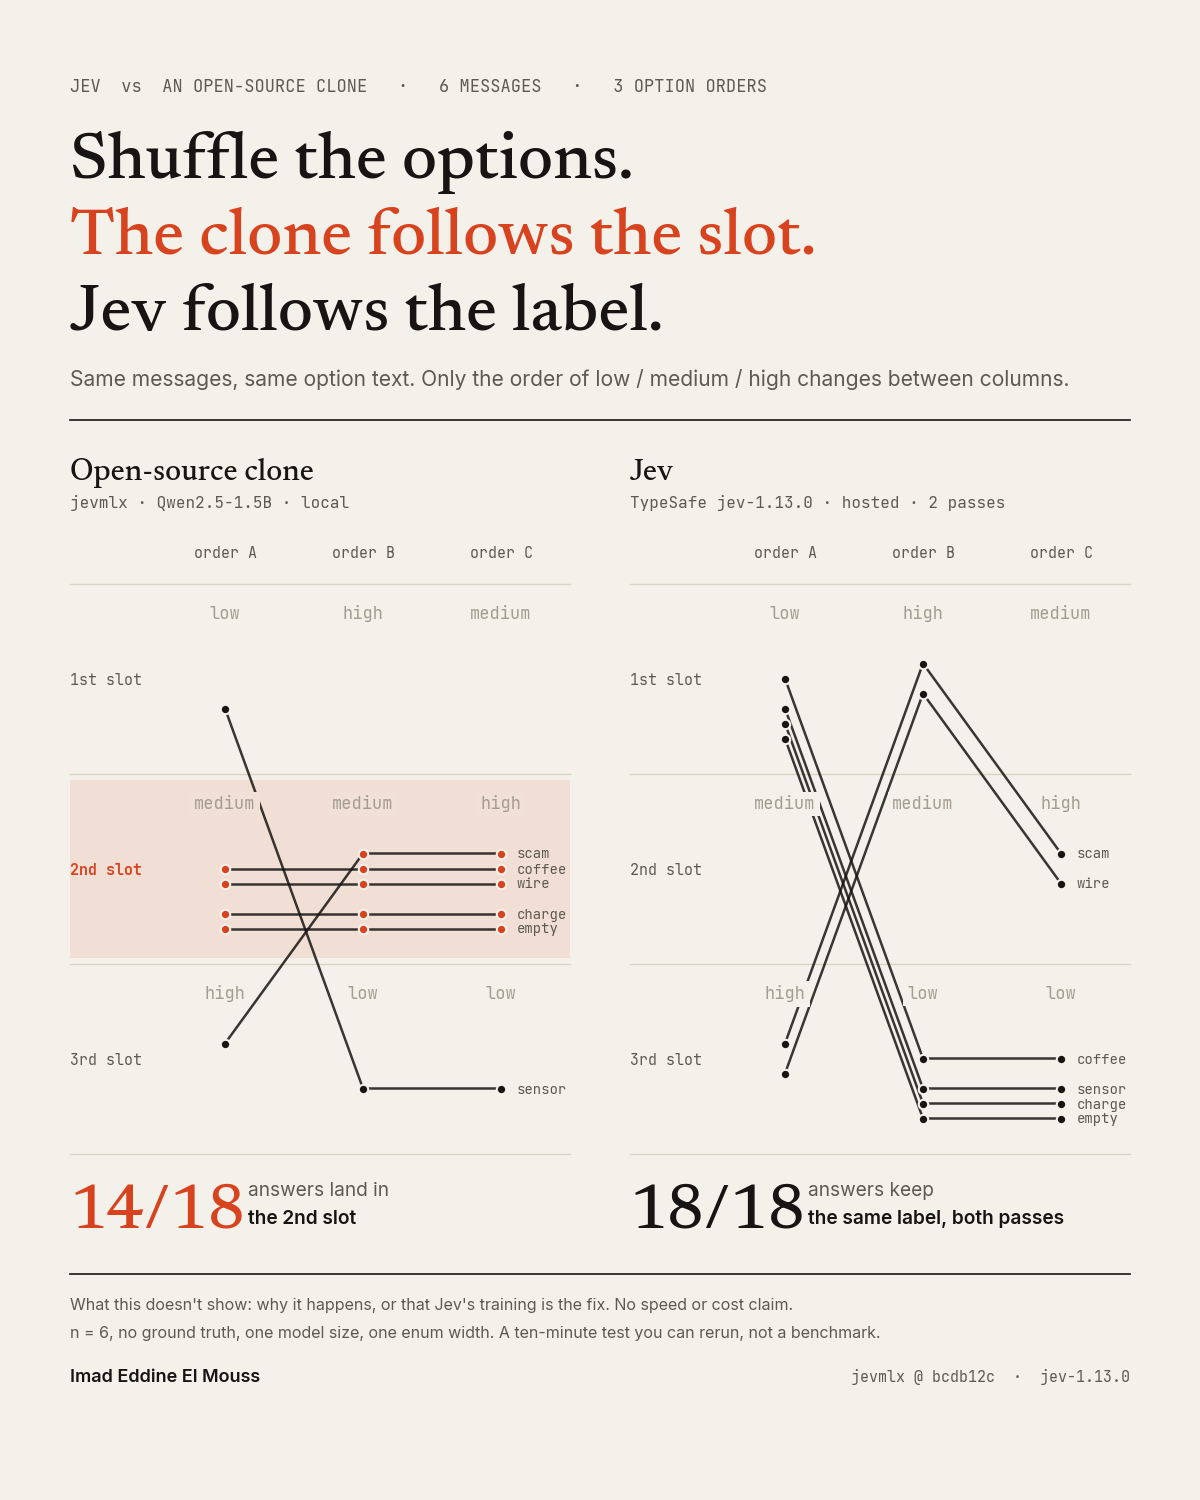
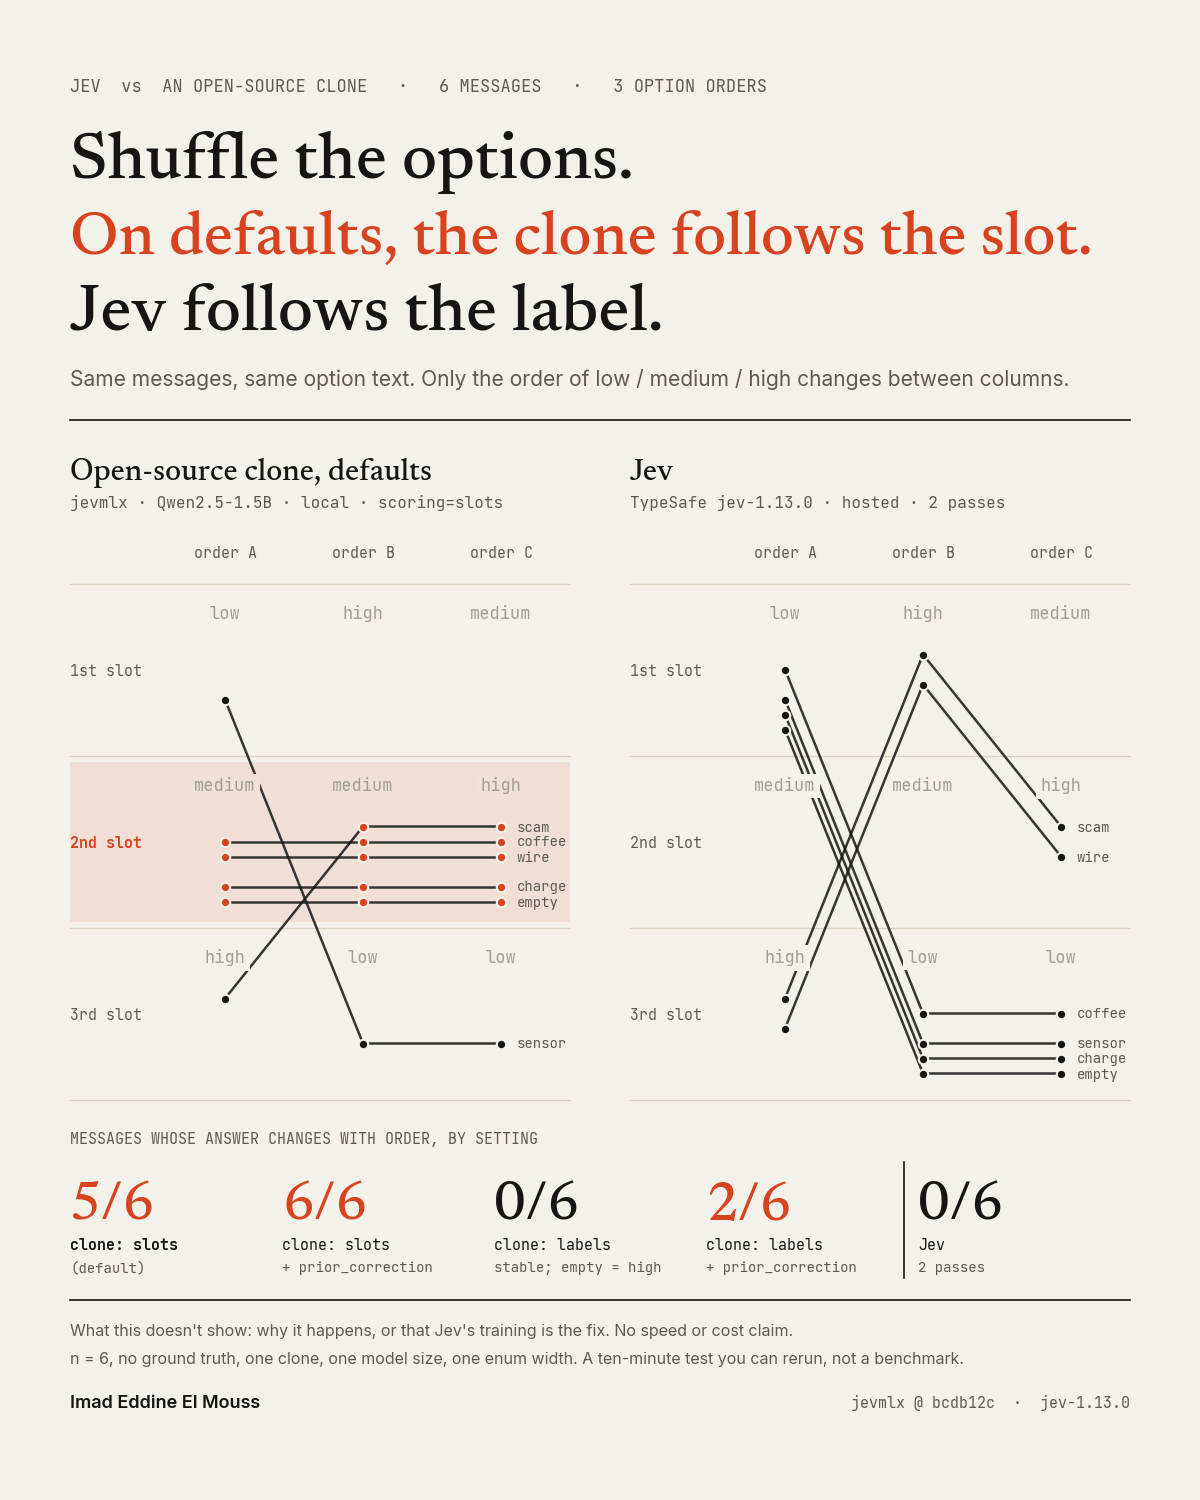
Test jevmlx's own settings (prior_correction, labels scoring); reframe to default settings

diff --git a/clone_jevmlx_position.py b/clone_jevmlx_position.py
@@ -98,9 +98,10 @@ ORDERS = {
 }
 
 
-def measurement_1_permutation():
+def measurement_1_permutation(scoring: str = "slots", prior_correction: bool = False):
     print("=" * 100)
     print("MEASUREMENT 1: does risk_tier track enum POSITION in the prompt?")
+    print(f"settings: scoring={scoring} prior_correction={prior_correction}")
     print("=" * 100)
     header = f"{'case':<24}" + "".join(f"{name:<26}" for name in ORDERS)
     print(header)
@@ -108,7 +109,10 @@ def measurement_1_permutation():
         row = f"{case_name:<24}"
         for order_name, order in ORDERS.items():
             model_cls = make_model(order)
-            d = jevmlx.decide(model_cls, ctx, model=MODEL)
+            d = jevmlx.decide(
+                model_cls, ctx, model=MODEL,
+                scoring=scoring, prior_correction=prior_correction,
+            )
             fr = d.fields["risk_tier"]
             cell = f"{fr.value}(m={fr.log_score_margin:.3f})"
             row += f"{cell:<26}"
@@ -252,4 +256,12 @@ if __name__ == "__main__":
     import mlx_lm  # noqa: E402
     print(f"jevmlx source: {commit}")
     print(f"model: {MODEL}  mlx: {mx.__version__}  mlx_lm: {mlx_lm.__version__}")
-    measurement_1_permutation()
+    import argparse  # noqa: E402
+
+    ap = argparse.ArgumentParser()
+    ap.add_argument("--scoring", choices=["slots", "labels"], default="slots",
+                    help="jevmlx scoring mode (default slots, the library default)")
+    ap.add_argument("--prior-correction", action="store_true",
+                    help="subtract jevmlx's neutral-context prior before choosing")
+    args = ap.parse_args()
+    measurement_1_permutation(args.scoring, args.prior_correction)

diff --git a/README.md b/README.md
@@ -1,31 +1,31 @@
-# The interface is easy to copy. Position invariance isn't.
+# Reorder the options and a Jev clone changes its answer (on default settings)
 
-![Shuffle the options. The clone follows the slot. Jev follows the label.](figure/jev-position-sensitivity.png)
+![Shuffle the options. On default settings the clone follows the slot. Jev follows the label.](figure/jev-position-sensitivity.png)
 
-TypeSafe launched Jev on 15 September 2026. Instead of generating text and parsing JSON out of it, you send typed questions over a fixed answer space (boolean, enum, score) plus context, and get what TypeSafe describes as a calibrated probability per field back in one forward pass. TypeSafe claims 40-200x speed and cost advantages over generate-then-parse, and near-zero hallucination by construction: the output space is constrained, so the model can't emit a value outside your schema.
+I listed the same three options in three different orders and asked the same six questions. On its default settings, jevmlx, an open-source clone of the Jev interface, changed its answer on 5 of 6 messages, and 14 of its 18 answers were whichever option happened to be listed second. Its built-in prior correction made that worse. Switching its scoring mode made it order-stable. Hosted Jev didn't move at all.
 
-Within days, open-source clones of the interface showed up. They read logits at constrained answer positions on local open-weight models instead of generating tokens: same interface shape, none of TypeSafe's training behind it. I ran one of them, jevmlx (MLX-native, Qwen2.5-1.5B-Instruct-4bit, fully local), against a small position-sensitivity test, then ran the same test against real Jev to see whether the gap between "looks like Jev" and "is Jev" shows up somewhere concrete.
+## Background
 
-It does, in one specific place: how stable the answer is to the order you list your enum options in.
+TypeSafe launched Jev on 15 September 2026. You send typed questions over a fixed answer space (boolean, enum, score) plus context, and get what TypeSafe describes as a calibrated probability per field back in one forward pass, instead of generating text and parsing JSON. Within days, open-source clones of the interface appeared. They read logits at constrained answer positions on local open-weight models, with none of TypeSafe's training behind them.
+
+I took one of them, jevmlx (MLX, Qwen2.5-1.5B-Instruct-4bit, fully local), and asked one narrow question: does the answer depend on the order you list your enum options in?
 
 ## The test
 
-Six short messages, one boolean field (`is_risky`) and one 3-option enum field (`risk_tier`: low/medium/high), run through three different orderings of the same three options: `[low, medium, high]`, `[high, medium, low]`, `[medium, high, low]`. Same option descriptions in every ordering, only the position in the prompt/criteria map changes, never the meaning.
-
-If a model's answer is a genuine read of the case, the chosen tier shouldn't depend on where in the list the words happen to sit. If it does, something in the readout is leaking position into the decision.
-
-Cases:
+Six short messages, one 3-option enum field (`risk_tier`: low / medium / high) plus a boolean, run through three orderings of the same options: `[low, medium, high]`, `[high, medium, low]`, `[medium, high, low]`. Same option descriptions every time. Only the position changes, never the meaning. If the chosen tier depends on where an option sits, position is leaking into the decision.
 
 - `clear_high_risk_scam`: a phishing-style urgent message asking for card details
 - `benign_smalltalk`: a coffee catch-up message
 - `ambiguous_urgent`: a wire transfer request with no verification, urgent tone
 - `technical_neutral`: a sensor reading within normal range
-- `mild_concern`: an unrecognized small charge, plausibly a forgotten subscription
+- `mild_concern`: an unrecognized $40 charge, plausibly a forgotten subscription
 - `empty_string`: literally nothing
 
-## jevmlx (local)
+## jevmlx on default settings
 
-| case | orig (low/med/high) | reversed (high/med/low) | rotated (med/high/low) |
+jevmlx's default `scoring="slots"` lists each option under a neutral code in the prompt and scores the codes.
+
+| case | low/med/high | high/med/low | med/high/low |
 |---|---|---|---|
 | clear_high_risk_scam | high | medium | high |
 | benign_smalltalk | medium | medium | high |
@@ -34,17 +34,32 @@ Cases:
 | mild_concern | medium | medium | high |
 | empty_string | medium | medium | high |
 
-5 of 6 cases change their answer depending only on where the option sits in the list. `technical_neutral` is the one exception.
+5 of 6 cases change their answer with order alone. 14 of the 18 answers are whichever option is listed second: `medium` in the first two orderings, `high` in the third. That's how a coffee invite and an empty string become "high risk" once `high` moves into slot two.
 
-The pattern is sharper than "unstable": 14 of the 18 answers are whichever option is listed second. That's `medium` in the first two orderings and `high` in the third, which is why a coffee invite and an empty string come out "high risk" once `high` moves into slot two. The only answers not in slot two are `technical_neutral` (always `low`) and the scam case in the original ordering.
+The clone gives no warning. `benign_smalltalk` lands on `high` with a log-score margin of 1.48 nats over the runner-up, close to the 1.66 to 1.78 it gives the actual scam. A confidence threshold wouldn't catch it.
 
-The clone doesn't signal that anything is off, either. `benign_smalltalk` lands on `high` with a log-score margin of 1.48 nats over the runner-up, about the same margin it gives the scam message. A confidence threshold would not catch these.
+## jevmlx's own settings
 
-## Real Jev
+jevmlx ships two relevant switches, so I ran all four combinations on the same pinned commit.
 
-Each ordering sent twice (pass 1 / pass 2), because JSON objects are unordered by spec and TypeSafe's docs don't say whether the order of the `criteria` map is kept. The repeat tells us whether the ordering actually reaches the model.
+| setting | cases that change with order | answers in slot 1 / 2 / 3 |
+|---|---|---|
+| `slots` (default) | 5 / 6 | 1 / 14 / 3 |
+| `slots` + `prior_correction` | 6 / 6 | 0 / 5 / 13 |
+| `labels` | 0 / 6 | 6 / 4 / 8 |
+| `labels` + `prior_correction` | 2 / 6 | 6 / 4 / 8 |
 
-| case | orig (low/med/high) | reversed (high/med/low) | rotated (med/high/low) |
+`prior_correction` subtracts the model's answer to an empty context. In slots mode it overshoots: the pull moves from slot two to slot three, the scam message comes out `low` in two of three orderings, and half of the 18 margins fall below 0.27 nats.
+
+`scoring="labels"` scores the option text itself, and the order effect is gone on this test: 0 of 6 flips. Stable isn't the same as sensible, though. In labels mode the clone rates `mild_concern` and `empty_string` as `high` in every ordering. Without ground truth I can't call that wrong, but you can judge "an empty message is high risk" yourself.
+
+Full per-case output for every setting is in `results/`.
+
+## Hosted Jev
+
+Each ordering sent twice, because JSON objects are unordered by spec and TypeSafe's docs don't say whether the `criteria` map keeps its order. The repeat shows whether the ordering reaches the model at all. Cells are chosen tier (confidence pass 1 / pass 2).
+
+| case | low/med/high | high/med/low | med/high/low |
 |---|---|---|---|
 | clear_high_risk_scam | high (1.00 / 1.00) | high (1.00 / 1.00) | high (1.00 / 1.00) |
 | benign_smalltalk | low (1.00 / 1.00) | low (0.99 / 0.99) | low (0.99 / 0.99) |
@@ -53,40 +68,41 @@ Each ordering sent twice (pass 1 / pass 2), because JSON objects are unordered b
 | mild_concern | low (0.60 / 0.67) | low (0.46 / 0.54) | low (0.50 / 0.56) |
 | empty_string | low (1.00 / 1.00) | low (0.99 / 0.99) | low (1.00 / 1.00) |
 
-0 of 6 flips, in both passes: 36 of 36 answers keep the same label.
+0 of 6 flips in both passes: 36 of 36 answers keep the same label.
 
-The ordering does reach the model. Confidence shifts with order more than it shifts between identical requests: `ambiguous_urgent` spreads 0.13 to 0.16 across orderings against at most 0.04 between repeats, and it is lowest in the original ordering in both passes. `benign_smalltalk` and `empty_string` repeat exactly, yet still differ by 0.01 between orderings. `mild_concern` is the noisiest case (0.08 between repeats, 0.13 to 0.14 across orderings). So Jev sees the reordering, moves its confidence a little, and keeps the same answer. It is also not deterministic: identical requests can return confidences up to 0.08 apart.
-
-`empty_string` was sent as a true empty string to both systems and Jev accepted it without complaint, landing on `low` at full confidence.
+The ordering does reach the model. Confidence moves with order more than between identical requests: `ambiguous_urgent` spreads 0.13 to 0.16 across orderings against at most 0.04 between repeats, and is lowest in the original ordering both times. `benign_smalltalk` and `empty_string` repeat exactly yet still differ by 0.01 between orderings. `mild_concern` is the noisiest (0.08 between repeats, 0.13 to 0.14 across orderings). Jev sees the reordering, nudges its confidence, and keeps its answer. It is also not deterministic: identical requests came back up to 0.08 apart.
 
 ## What this does and doesn't show
 
-The claim that survives scrutiny: on a 3-option enum, an open-source approximation of the Jev interface gave position-dependent answers on 5 of 6 cases, landing on the second-listed option 14 of 18 times. Real Jev gave position-invariant answers on 6 of 6 (in two passes), under the same option text, the same case list, the same three orderings.
+What holds: on this 3-option enum, jevmlx's default scoring gave order-dependent answers on 5 of 6 cases, mostly picking the second-listed option. Its prior correction made it worse. Label scoring removed the order effect here. Hosted Jev was order-stable across two passes.
 
-That's it. A few things this is deliberately not claiming:
+What it doesn't show:
 
-- **Not a mechanism claim.** I know the local model's answer moves with position. I don't know if that's a token prior, a first-token tokenization quirk in how the aliases get encoded, or a middle-slot bias. I only ruled out "the model just likes the word medium," since the flips track slot position, not the literal string. Adding option descriptions, so both systems saw the same rubric instead of bare words on one side, didn't change the result. If anything the local model flipped on one more case with descriptions than without.
-- **Not an RLCD claim.** I don't know that TypeSafe's training process specifically is what fixes this. Model scale, instruction tuning, their exact prompt template, and how they handle the criteria map are all live alternative explanations. Whatever's in their pipeline, it produces stability the copy doesn't have.
-- **Not a latency or cost claim.** I'm not touching the 40-200x number here. A single local forward pass and a network call to a hosted API aren't comparable that way, and conflating them would be sloppy in exactly the way a technical reader would catch immediately.
-- **n=6, no ground truth, one model size, one quantization, one enum width.** This is a method demonstration, not a benchmark. The useful part is the test itself: reorder your options, rerun, see if the answer moves. Anyone can run that in ten minutes against any constrained-decoding wrapper.
+- No mechanism. The effect appears with slot scoring and not with label scoring, which says where it shows up, not why. It could be a prior on the codes, a tokenization quirk, or a middle-slot bias. Adding option descriptions (so both systems saw the same rubric) didn't remove it; the defaults flipped on one more case with descriptions than without.
+- No claim about TypeSafe's training. Model scale, instruction tuning, prompt template and how they handle the criteria map are all live explanations for Jev's stability.
+- No latency or cost claim. A local forward pass and a hosted API call aren't comparable that way, so the 40-200x figure is untouched here.
+- n = 6, no ground truth, one clone, one model size, one quantization, one enum width. A method demonstration, not a benchmark.
 
 ## Take from it what's actually there
 
-The System One interface (typed questions in, a probability per field out) is straightforward to approximate once you know the shape: read logits at the constrained answer positions instead of generating tokens. Days after launch, that's exactly what happened. What doesn't come for free is whatever makes the answer insensitive to which slot an option happens to occupy. Whatever produces that isn't in the wiring.
+Copying the interface was fast. Which readout you wire behind it decides whether option order leaks into the answer, and the default here does. If you run a constrained-decoding wrapper, the test costs ten minutes: reorder your options, rerun, see if the answer moves. Then try the tool's own switches, because the one that sounds like the fix (prior correction) wasn't.
 
 ---
 
 ## Setup
 
-- **Clone:** jevmlx from [bnsd55/openjev](https://github.com/bnsd55/openjev) at commit `bcdb12c`, Qwen2.5-1.5B-Instruct-4bit, local on an M4 MacBook via MLX (mlx 0.32.2, mlx_lm 0.31.3). `ordered` flag off; option descriptions are rendered in the prompt. The readout is deterministic, so two runs gave identical output: that confirms reproducibility, not robustness.
-- **Jev:** hosted `jev-latest` alias (responses report `jev-1.13.0`) via TypeSafe's `/v1/systemone` API, run 2026-09-20 14:47 UTC, every ordering sent twice.
+- Clone: jevmlx from [bnsd55/openjev](https://github.com/bnsd55/openjev) at commit `bcdb12c`, Qwen2.5-1.5B-Instruct-4bit, local on an M4 MacBook via MLX (mlx 0.32.2, mlx_lm 0.31.3). `ordered` flag off; option descriptions are rendered in the prompt. The readout is deterministic, so two runs gave identical output: that confirms reproducibility, not robustness.
+- Jev: hosted `jev-latest` alias (responses report `jev-1.13.0`) via TypeSafe's `/v1/systemone` API, run 2026-09-20 14:47 UTC, every ordering sent twice.
 
 ## Reproduce
 
 ```bash
+python3.12 -m venv .venv && source .venv/bin/activate   # or: uv venv --python 3.12
+
 # Clone side (Apple Silicon, Python >= 3.12)
 pip install "jevmlx @ git+https://github.com/bnsd55/openjev@bcdb12cb3e3726f1691849bfdb6fb099c15c1933"
-python3 clone_jevmlx_position.py
+python3 clone_jevmlx_position.py                       # library defaults
+python3 clone_jevmlx_position.py --prior-correction    # other settings: --scoring labels
 
 # Jev side (needs a TypeSafe API key; the script never prints it)
 pip install requests
@@ -99,7 +115,9 @@ To test another constrained-decoding wrapper, keep the six cases and option text
 ## Files
 
 - `clone_jevmlx_position.py`, `jev_hosted_position.py`: the two tests
-- `results/clone-run-1.txt`, `results/clone-run-2.txt`: raw clone output (identical)
+- `results/clone-run-1.txt`, `results/clone-run-2.txt`: clone defaults, two runs (identical)
+- `results/clone-defaults-fresh.txt`: clone defaults again from a clean install of the pinned commit (identical)
+- `results/clone-prior-correction.txt`, `results/clone-labels.txt`, `results/clone-labels-prior.txt`: the other three settings
 - `results/jev-run.txt`, `results/exp6_results_20260920T144708Z.json`: raw Jev output, both passes
 
 Not affiliated with TypeSafe or the jevmlx authors. Personal experiment.
